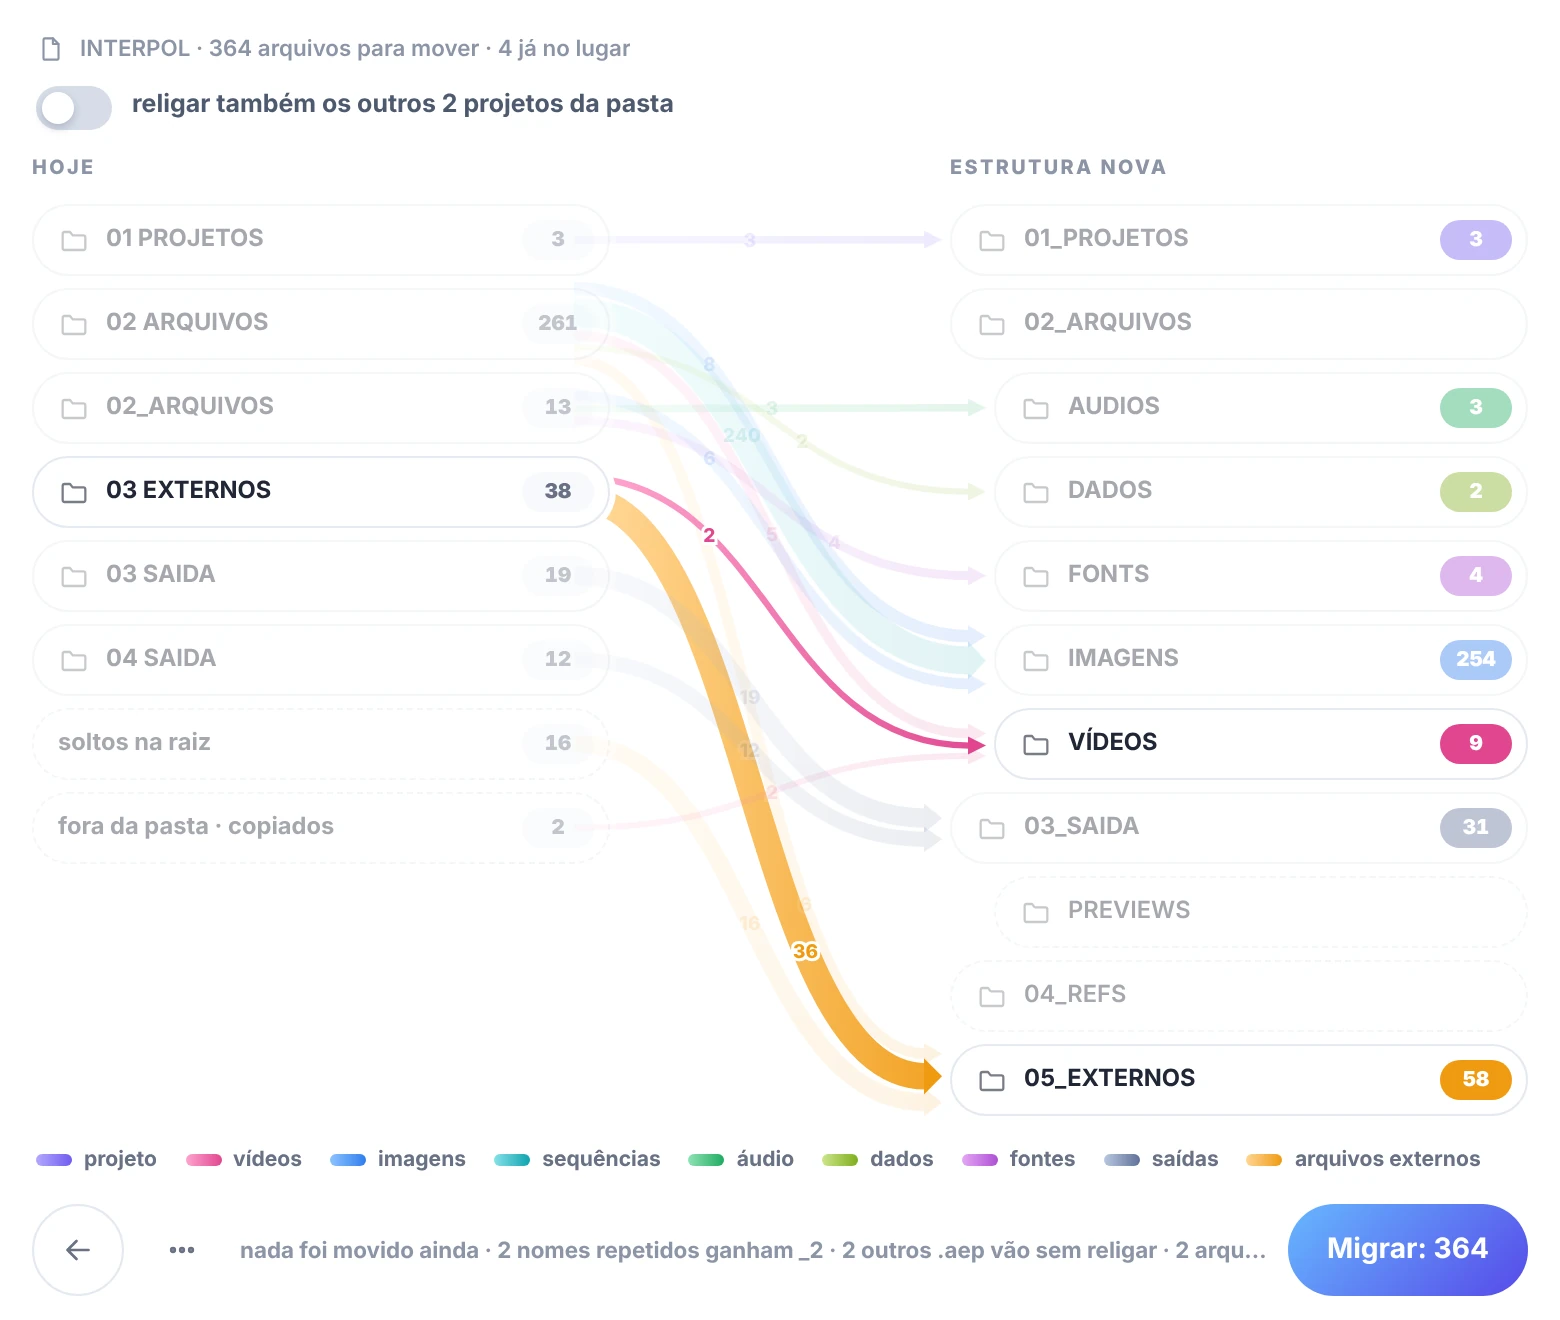
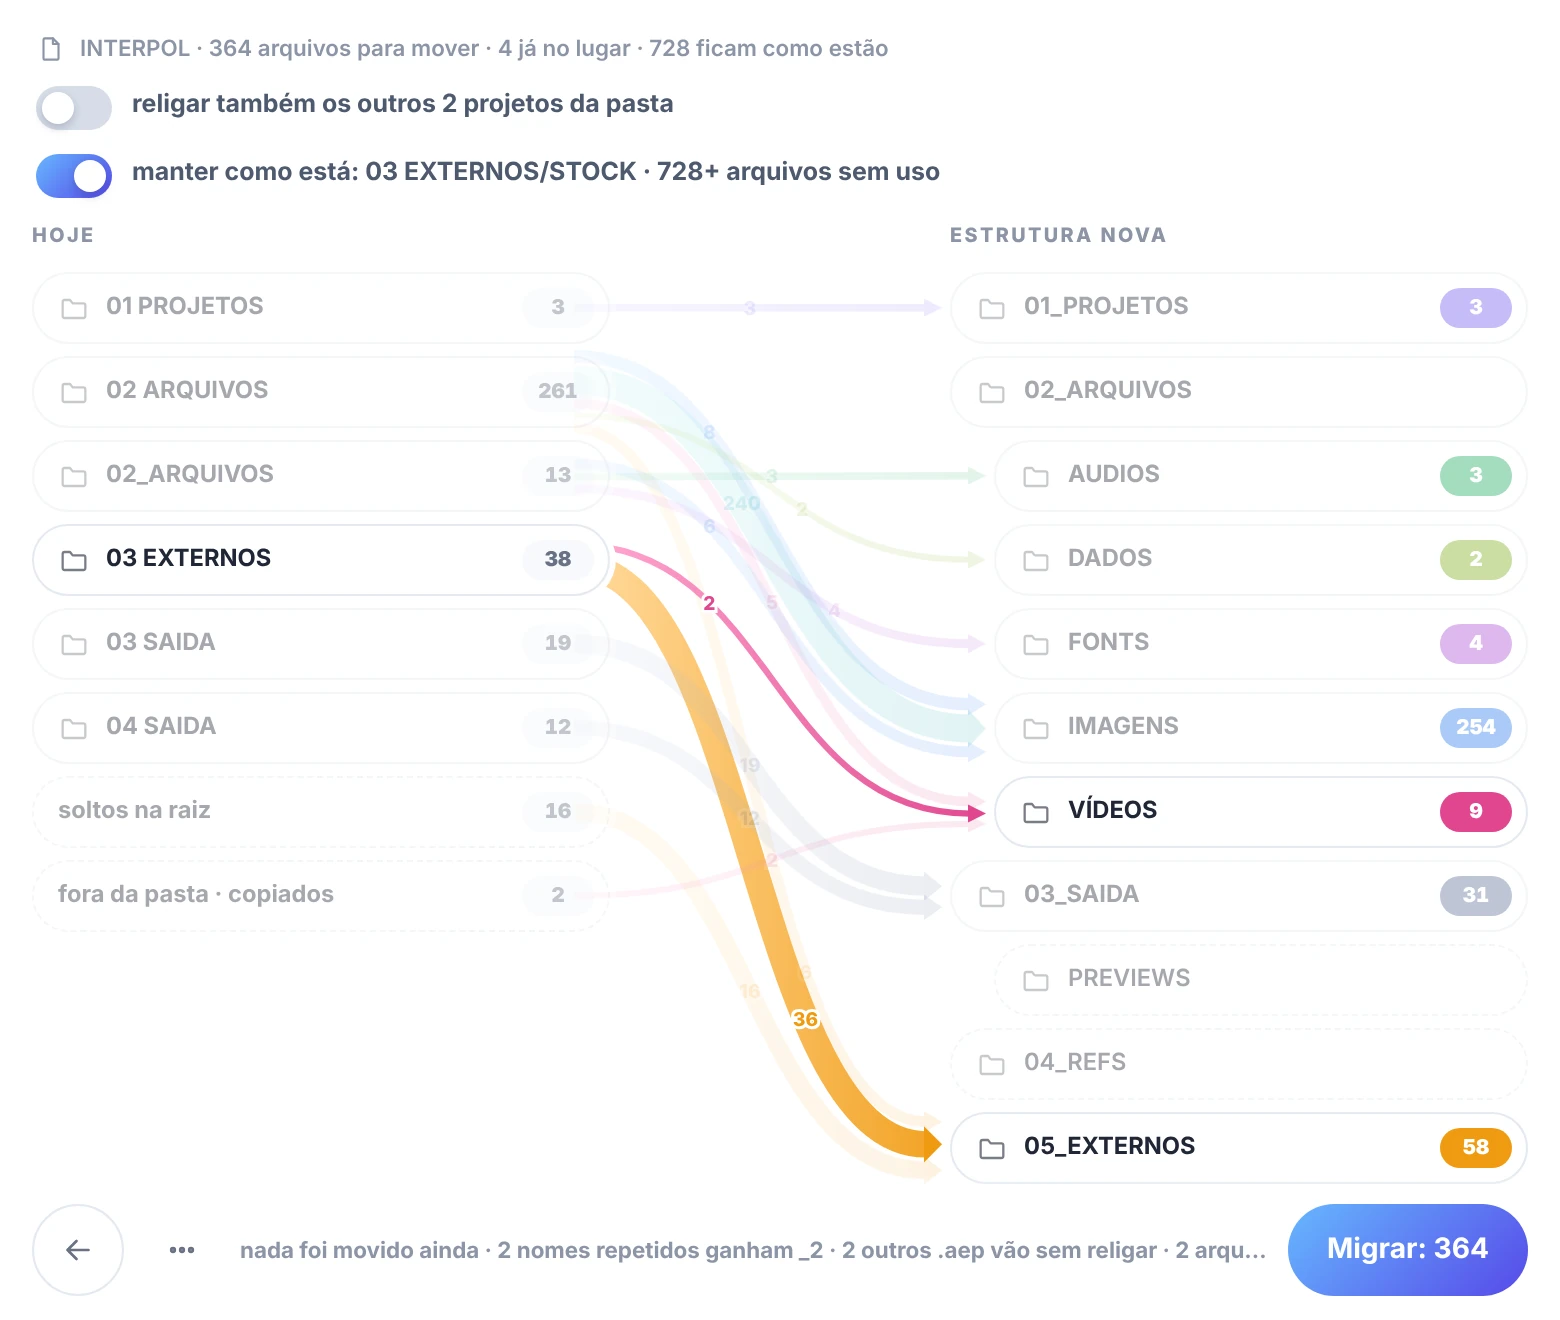
migração: pastas grandes de arquivos sem uso ficam como estão
- a leitura vai até 3 pastas para dentro (as de saída, inteiras); o que o projeto
  usa sai de qualquer profundidade
- a pasta de segundo nível com mais de 100 arquivos sem uso, ou mais funda do que
  a leitura, fica onde está; a janela mostra cada uma com a chave 'manter como
  está' (desligada: vai inteira para os externos)

Claude-Session: https://claude.ai/code/session_01DrYHfUyMEmqYvcFyKefNe2

diff --git a/extension/host/migrate.jsx b/extension/host/migrate.jsx
@@ -13,6 +13,10 @@ com outra grafia (02 ARQUIVOS, 02_ARQUIVOS) se juntam e nada fica solto.
   o que está numa pasta de saída               → a pasta do tipo 'saidas', com as subpastas
   as fontes de uma pasta de fontes             → a pasta do tipo 'fontes'
   todo o resto                                 → a pasta do tipo 'externos', com o caminho de antes dentro dela
+  as pastas grandes de arquivos sem uso        → FICAM COMO ESTÃO (banco de presets, stock footage…): a pasta de segundo
+                                                 nível (03 EXTERNOS/STOCK) com mais de PAD_MIGRATION_BULK arquivos sem
+                                                 uso, ou com pastas além de PAD_MIGRATION_DEPTH níveis (que nem são
+                                                 lidas). a janela mostra cada uma e deixa mover também ({ move })
   os arquivos usados que estão FORA da raiz    → COPIADOS (não movidos: outros projetos podem usar) para a pasta do
                                                  tipo de cada um, como o coletar faz
 
@@ -40,6 +44,8 @@ Arquivo movido no disco não volta com o Ctrl+Z do After Effects: por isso o reg
 var PAD_MIGRATION_LOG = '_migracao_padeiro.json';
 var PAD_MIGRATION_MS = 15000; // o tempo máximo da leitura da pasta
 var PAD_MIGRATION_FILES = 30000; // e o máximo de arquivos
+var PAD_MIGRATION_DEPTH = 3; // até quantas pastas para dentro a leitura vai (as de saída e as que o usuário manda mover, inteiras)
+var PAD_MIGRATION_BULK = 100; // mais arquivos sem uso do que isto numa pasta: é um banco, fica como está
 var PAD_MIGRATION_FALLBACK = { projeto: '01_PROJETOS', saidas: '03_SAIDA', externos: '05_EXTERNOS' };
 var PAD_FONT_EXT = /\.(otf|ttf|ttc|otc|woff2?|pfb|pfm|dfont)$/i;
 var PAD_PROJECT_EXT = /\.(aep|aet|aepx)$/i;
@@ -91,7 +97,17 @@ function padMigrateUsed() {
 	return used;
 }
 
-// Todos os arquivos da pasta (para dentro, até 10 níveis): [{ path, rel, top }]. pula os escondidos e o registro.
+// A pasta de segundo nível de um arquivo ('03 EXTERNOS/STOCK/a/b.png' → '03 EXTERNOS/STOCK'): a unidade das pastas grandes.
+function padMigrateGroup(rel) {
+	var dirs = rel.split('/');
+
+	dirs.pop();
+
+	return dirs.slice(0, 2).join('/');
+}
+
+// Todos os arquivos da pasta (para dentro, até 'depth' níveis): [{ path, rel, top }]. pula os escondidos e o registro.
+// as pastas além do limite não são lidas: ficam em state.deep [{ path, rel }]
 function padMigrateScan(folder, rel, depth, state) {
 	var list = [];
 
@@ -114,6 +130,7 @@ function padMigrateScan(folder, rel, depth, state) {
 
 		if (isFolder) {
 			if (depth > 0) padMigrateScan(new Folder(list[i].fsName), here, depth - 1, state);
+			else state.deep.push({ path: list[i].fsName, rel: here });
 			continue;
 		}
 
@@ -146,7 +163,8 @@ function padIsFontsFolder(name) {
 // O plano: o que vai para onde. → { root, name, project, ops, stay, conflicts, others, outside, partial, sources, ... }
 // ops: [{ from, to (relativo à raiz), type, top, id (o item do After, se usado), first, project (o .aep aberto) }]
 // all: soma o que os outros projetos da pasta usam (lido pelo migrateRead*)
-function padMigrateBuild(all) {
+// move: as pastas grandes que o usuário mandou mover também (as outras ficam como estão: plan.bulk, plan.kept)
+function padMigrateBuild(all, move) {
 	var file = app.project.file;
 
 	if (!file) throw new Error('#PAD_104 - migrar: salve o projeto antes (a migração arruma a pasta onde ele está).');
@@ -155,8 +173,14 @@ function padMigrateBuild(all) {
 	var root = new Folder(padCollectRoot(file, settings));
 	var rootKey = padPathKey(root.fsName);
 	var used = padMigrateUsed();
-	var state = { files: [], until: new Date().getTime() + PAD_MIGRATION_MS, partial: false };
-	var plan = { root: root.fsName, name: decodeURI(root.name), project: file.fsName, ops: [], stay: 0, conflicts: 0, others: 0, outside: 0, partial: false, settings: settings, all: false };
+	var state = { files: [], deep: [], until: new Date().getTime() + PAD_MIGRATION_MS, partial: false };
+	var plan = { root: root.fsName, name: decodeURI(root.name), project: file.fsName, ops: [], stay: 0, conflicts: 0, others: 0, outside: 0, partial: false, settings: settings, all: false, bulk: [], kept: 0 };
+	var moveSet = {};
+	var deepGroup = {};
+	var groupCount = {};
+	var m;
+
+	for (m = 0; move && m < move.length; m++) moveSet[move[m]] = true;
 	var extra = all && padMigrationRead && padPathKey(padMigrationRead.root) == rootKey ? padMigrationRead.used : null;
 
 	// o que os outros projetos usam (o projeto aberto vem primeiro: os itens dele são os que este After religa agora)
@@ -174,8 +198,35 @@ function padMigrateBuild(all) {
 	var extKey = padPathKey(root.fsName + '/' + destExt);
 	var k;
 
-	padMigrateScan(root, '', 10, state);
+	padMigrateScan(root, '', PAD_MIGRATION_DEPTH, state);
+
+	// as pastas fundas: as de saída e as das pastas que o usuário mandou mover são lidas inteiras; as outras marcam
+	// a pasta de segundo nível como grande (fica como está)
+	var deep = state.deep;
+
+	state.deep = [];
+	for (m = 0; m < deep.length; m++) {
+		var group = padMigrateGroup(deep[m].rel + '/x');
+
+		if (moveSet[group] || padIsOutputFolder(deep[m].rel.split('/')[0], saidasKey)) padMigrateScan(new Folder(deep[m].path), deep[m].rel, 10 - PAD_MIGRATION_DEPTH, state);
+		else deepGroup[group] = true;
+	}
 	plan.partial = state.partial;
+
+	// os usados que estão na raiz mas fundo demais para a leitura: entram pelo caminho do item do After
+	var scanned = {};
+
+	for (m = 0; m < state.files.length; m++) scanned[padPathKey(state.files[m].path)] = true;
+
+	for (k in used) {
+		if (!used.hasOwnProperty(k) || k.indexOf(rootKey) != 0 || scanned[k]) continue;
+
+		var deepRel = padSlash(used[k].path).substring(padSlash(root.fsName).length + 1);
+
+		if (padPathKey(root.fsName + '/' + deepRel) != k) continue;
+
+		state.files.push({ path: used[k].path, rel: deepRel, top: deepRel.indexOf('/') < 0 ? '' : deepRel.split('/')[0] });
+	}
 
 	// os usados que estão fora da raiz: copiados para a pasta do tipo (o original fica onde está). 'top' = '..' é a
 	// origem "fora da pasta" no desenho; 'from' é o caminho inteiro
@@ -238,8 +289,36 @@ function padMigrateBuild(all) {
 			continue;
 		}
 
+		// sem uso e dentro de uma pasta: conta para a pasta de segundo nível (as grandes ficam como estão)
+		if (op.type == 'externos' && !op.id && f.top != '') {
+			op.bulk = padMigrateGroup(f.rel);
+			groupCount[op.bulk] = (groupCount[op.bulk] || 0) + 1;
+		}
+
 		plan.ops.push(op);
 	}
+
+	// as pastas grandes (muitos arquivos sem uso, ou fundas demais): ficam como estão, a não ser as que o usuário
+	// mandou mover
+	var heavy = {};
+	var kept = [];
+
+	for (k in deepGroup) {
+		if (deepGroup.hasOwnProperty(k) && !groupCount[k]) groupCount[k] = 0;
+	}
+
+	for (k in groupCount) {
+		if (!groupCount.hasOwnProperty(k) || (groupCount[k] <= PAD_MIGRATION_BULK && !deepGroup[k])) continue;
+
+		heavy[k] = true;
+		plan.bulk.push({ path: k, count: groupCount[k], deep: !!deepGroup[k], keep: !moveSet[k] });
+	}
+
+	for (m = 0; m < plan.ops.length; m++) {
+		if (plan.ops[m].bulk && heavy[plan.ops[m].bulk] && !moveSet[plan.ops[m].bulk]) plan.kept++;
+		else kept.push(plan.ops[m]);
+	}
+	plan.ops = kept;
 
 	// nomes repetidos no destino (dois arquivos com o mesmo nome, ou um que já existe lá): o segundo ganha _2, _3…
 	for (var o = 0; o < plan.ops.length; o++) {
@@ -264,12 +343,13 @@ function padMigrateBuild(all) {
 // O plano para o desenho da janela: as pastas de hoje, a estrutura nova e os fluxos entre elas.
 // → { root, name, total, stay, conflicts, others, outside, partial, undo (há um registro para desfazer),
 //     sources: [{ name ('' = soltos na raiz), count }], dests: [{ path, depth, type, count, extra (fora da árvore) }],
-//     links: [{ from, to, type, count, names (os primeiros arquivos) }] }
-// a: { all } (com o uso dos outros projetos, já lido)
+//     links: [{ from, to, type, count, names (os primeiros arquivos) }],
+//     bulk: [{ path, count, deep (tem pastas que nem foram lidas), keep }] (as pastas grandes), kept (quantos ficam) }
+// a: { all } (com o uso dos outros projetos, já lido), { move } (as pastas grandes para mover também)
 PADX.migratePlan = function (a) {
-	var plan = padMigrateBuild(a && a.all);
+	var plan = padMigrateBuild(a && a.all, a && a.move);
 	var folders = padStructureFolders(plan.settings);
-	var res = { root: padDisplayPath(plan.root), name: plan.name, total: plan.ops.length, stay: plan.stay, conflicts: plan.conflicts, others: plan.others, outside: plan.outside, partial: plan.partial, all: plan.all, undo: new File(plan.root + '/' + PAD_MIGRATION_LOG).exists, sources: [], dests: [], links: [] };
+	var res = { root: padDisplayPath(plan.root), name: plan.name, total: plan.ops.length, stay: plan.stay, conflicts: plan.conflicts, others: plan.others, outside: plan.outside, partial: plan.partial, all: plan.all, bulk: plan.bulk, kept: plan.kept, undo: new File(plan.root + '/' + PAD_MIGRATION_LOG).exists, sources: [], dests: [], links: [] };
 	var srcIndex = {};
 	var dstIndex = {};
 	var linkIndex = {};
@@ -560,9 +640,9 @@ PADX.migrateReadEnd = function () {
 };
 
 // Começa: refaz o plano (a pasta pode ter mudado desde o desenho) e cria as pastas da estrutura. → { total }
-// a: { all } (com os outros projetos: o uso deles já foi lido)
+// a: { all } (com os outros projetos: o uso deles já foi lido), { move } (as pastas grandes para mover também)
 PADX.migrateBegin = function (a) {
-	var plan = padMigrateBuild(a && a.all);
+	var plan = padMigrateBuild(a && a.all, a && a.move);
 
 	if (plan.partial) throw new Error('#PAD_105 - migrar: a pasta é grande demais para ler de uma vez (mais de ' + PAD_MIGRATION_FILES + ' arquivos ou muito lenta). nada foi movido.');
 	if (new File(plan.root + '/' + PAD_MIGRATION_LOG).exists) throw new Error('#PAD_106 - migrar: esta pasta já foi migrada (há um registro nela). desfaça a migração antes de migrar de novo.');

diff --git a/extension/client/js/mock-host.js b/extension/client/js/mock-host.js
@@ -1366,8 +1366,10 @@ Use '?mock=slow' para respostas mais lentas e '?mock=fail' para simular erros.
 		// com todos os projetos (a: { all }): o que só os outros projetos usam sai dos externos
 		migratePlan: function (a) {
 			var all = !!(a && a.all);
+			// a pasta grande de exemplo (um banco de stock): fica como está, a não ser que mandem mover
+			var moveStock = !!(a && a.move && a.move.indexOf('03 EXTERNOS/STOCK') >= 0);
 			var dests = [['01_PROJETOS', 0, 'projeto'], ['02_ARQUIVOS', 0, ''], ['02_ARQUIVOS/AUDIOS', 1, 'audio'], ['02_ARQUIVOS/DADOS', 1, 'dados'], ['02_ARQUIVOS/FONTS', 1, 'fontes'], ['02_ARQUIVOS/IMAGENS', 1, 'imagens'], ['02_ARQUIVOS/VÍDEOS', 1, 'videos'], ['03_SAIDA', 0, 'saidas'], ['03_SAIDA/PREVIEWS', 1, ''], ['04_REFS', 0, ''], ['05_EXTERNOS', 0, 'externos']];
-			var links = window.PAD_MOCK_MIGRATED ? [] : [['01 PROJETOS', '01_PROJETOS', 'projeto', 3], ['02 ARQUIVOS', '02_ARQUIVOS/IMAGENS', 'imagens', 8], ['02 ARQUIVOS', '02_ARQUIVOS/IMAGENS', 'sequencias', 240], ['02 ARQUIVOS', '02_ARQUIVOS/VÍDEOS', 'videos', 5], ['02 ARQUIVOS', '02_ARQUIVOS/DADOS', 'dados', 2], ['02 ARQUIVOS', '05_EXTERNOS', 'externos', all ? 2 : 6], ['02 ARQUIVOS', '02_ARQUIVOS/VÍDEOS', 'videos', all ? 4 : 0], ['02_ARQUIVOS', '02_ARQUIVOS/IMAGENS', 'imagens', 6], ['02_ARQUIVOS', '02_ARQUIVOS/AUDIOS', 'audio', 3], ['02_ARQUIVOS', '02_ARQUIVOS/FONTS', 'fontes', 4], ['03 EXTERNOS', '02_ARQUIVOS/VÍDEOS', 'videos', 2], ['03 EXTERNOS', '05_EXTERNOS', 'externos', all ? 24 : 36], ['03 EXTERNOS', '02_ARQUIVOS/IMAGENS', 'imagens', all ? 12 : 0], ['03 SAIDA', '03_SAIDA', 'saidas', 19], ['04 SAIDA', '03_SAIDA', 'saidas', 12], ['', '05_EXTERNOS', 'externos', 16], ['..', '02_ARQUIVOS/VÍDEOS', 'videos', 2]];
+			var links = window.PAD_MOCK_MIGRATED ? [] : [['01 PROJETOS', '01_PROJETOS', 'projeto', 3], ['02 ARQUIVOS', '02_ARQUIVOS/IMAGENS', 'imagens', 8], ['02 ARQUIVOS', '02_ARQUIVOS/IMAGENS', 'sequencias', 240], ['02 ARQUIVOS', '02_ARQUIVOS/VÍDEOS', 'videos', 5], ['02 ARQUIVOS', '02_ARQUIVOS/DADOS', 'dados', 2], ['02 ARQUIVOS', '05_EXTERNOS', 'externos', all ? 2 : 6], ['02 ARQUIVOS', '02_ARQUIVOS/VÍDEOS', 'videos', all ? 4 : 0], ['02_ARQUIVOS', '02_ARQUIVOS/IMAGENS', 'imagens', 6], ['02_ARQUIVOS', '02_ARQUIVOS/AUDIOS', 'audio', 3], ['02_ARQUIVOS', '02_ARQUIVOS/FONTS', 'fontes', 4], ['03 EXTERNOS', '02_ARQUIVOS/VÍDEOS', 'videos', 2], ['03 EXTERNOS', '05_EXTERNOS', 'externos', all ? 24 : 36], ['03 EXTERNOS', '02_ARQUIVOS/IMAGENS', 'imagens', all ? 12 : 0], ['03 SAIDA', '03_SAIDA', 'saidas', 19], ['04 SAIDA', '03_SAIDA', 'saidas', 12], ['03 EXTERNOS', '05_EXTERNOS', 'externos', moveStock ? 728 : 0], ['', '05_EXTERNOS', 'externos', 16], ['..', '02_ARQUIVOS/VÍDEOS', 'videos', 2]];
 			var sources = {};
 			var count = {};
 			var total = 0;
@@ -1393,7 +1395,7 @@ Use '?mock=slow' para respostas mais lentas e '?mock=fail' para simular erros.
 			});
 
 			return {
-				root: '/Volumes/VFX/imagem/drive_l/Fileserver_3/PROGRAMAS/INTERPOL', name: 'INTERPOL', total: total, stay: window.PAD_MOCK_MIGRATED ? 362 : 4, conflicts: window.PAD_MOCK_MIGRATED ? 0 : 2, others: window.PAD_MOCK_MIGRATED ? 0 : 2, outside: window.PAD_MOCK_MIGRATED ? 0 : 2, partial: false, all: all, undo: !!window.PAD_MOCK_MIGRATED,
+				root: '/Volumes/VFX/imagem/drive_l/Fileserver_3/PROGRAMAS/INTERPOL', name: 'INTERPOL', total: total, stay: window.PAD_MOCK_MIGRATED ? 362 : 4, conflicts: window.PAD_MOCK_MIGRATED ? 0 : 2, others: window.PAD_MOCK_MIGRATED ? 0 : 2, outside: window.PAD_MOCK_MIGRATED ? 0 : 2, partial: false, all: all, undo: !!window.PAD_MOCK_MIGRATED, kept: window.PAD_MOCK_MIGRATED || moveStock ? 0 : 728, bulk: window.PAD_MOCK_MIGRATED ? [] : [{ path: '03 EXTERNOS/STOCK', count: 728, deep: !moveStock, keep: !moveStock }],
 				sources: Object.keys(sources).sort(function (a, b) {
 					if (a === '..' || b === '..') return a === '..' ? 1 : -1;
 

diff --git a/extension/client/js/collect.js b/extension/client/js/collect.js
@@ -708,6 +708,25 @@ num volume não montado ou com outro sufixo (VFX-1 …): cata o caminho certo e 
 			box.appendChild(all);
 		}
 
+		// as pastas grandes de arquivos sem uso (banco de presets, stock footage…): ficam como estão, a não ser que a
+		// chave de cada uma seja desligada
+		(plan.undo ? [] : plan.bulk || []).forEach(function (bk) {
+			var keep = el('label', 'cfg-switch mg-all');
+			var check = el('input');
+
+			check.type = 'checkbox';
+			check.checked = bk.keep;
+			check.disabled = state.busy;
+			check.addEventListener('change', function () {
+				setBulk(bk.path, !check.checked);
+			});
+			keep.title = 'pasta grande de arquivos que o projeto não usa (um banco de presets, stock footage…).\nligado: fica como está, onde está.\ndesligado: vai inteira para a pasta dos arquivos externos, como o resto.' + (bk.deep ? '\ntem pastas além de 3 níveis, que só são lidas se ela for movida.' : '');
+			keep.appendChild(check);
+			keep.appendChild(el('span', 'cfg-switch-track'));
+			keep.appendChild(el('span', 'cfg-switch-label', 'manter como está: ' + bk.path + ' · ' + (bk.count ? bk.count + (bk.deep && bk.keep ? '+' : '') + ' arquivos sem uso' : 'pasta com muitos níveis')));
+			box.appendChild(keep);
+		});
+
 		grid.appendChild(oldCol);
 		grid.appendChild(el('div', 'mg-gap'));
 		grid.appendChild(newCol);
@@ -740,6 +759,7 @@ num volume não montado ou com outro sufixo (VFX-1 …): cata o caminho certo e 
 		if (state.mig.done) parts.push(plural(plan.total, 'arquivo migrado', 'arquivos migrados'));
 		else parts.push(plan.total ? plural(plan.total, 'arquivo para mover', 'arquivos para mover') : 'nada para mover');
 		if (plan.stay && !state.mig.done) parts.push(plan.stay + ' já no lugar');
+		if (plan.kept && !state.mig.done) parts.push(plural(plan.kept, 'fica como está', 'ficam como estão'));
 		$('fw-file').innerHTML = FILE_SVG;
 		$('fw-file').appendChild(el('span', null, parts.join(' · ')));
 
@@ -784,7 +804,7 @@ num volume não montado ou com outro sufixo (VFX-1 …): cata o caminho certo e 
 		try {
 			var plan = await call('migratePlan');
 
-			state.mig = { plan: plan, note: '', done: false, all: false, unread: [] };
+			state.mig = { plan: plan, note: '', done: false, all: false, unread: [], move: [] };
 			state.finds = null;
 			$('fw-list').hidden = true;
 			$('fw-empty').hidden = true;
@@ -846,9 +866,33 @@ num volume não montado ou com outro sufixo (VFX-1 …): cata o caminho certo e 
 			} else state.mig.unread = [];
 
 			state.mig.all = on;
-			state.mig.plan = await call('migratePlan', { all: on });
+			state.mig.plan = await call('migratePlan', { all: on, move: state.mig.move });
 		} catch (err) {
 			state.mig.all = false;
+			state.busy = false;
+			renderMigration();
+			status(err.message, 'error');
+			return;
+		}
+
+		state.busy = false;
+		renderMigration();
+	}
+
+	// uma pasta grande: mover também (ou voltar a manter como está); o plano é refeito
+	async function setBulk(path, move) {
+		if (state.busy) return;
+
+		state.busy = true;
+		state.mig.note = '';
+		state.mig.move = state.mig.move.filter(function (p) {
+			return p !== path;
+		}).concat(move ? [path] : []);
+		status('lendo a pasta do projeto…');
+
+		try {
+			state.mig.plan = await call('migratePlan', { all: !!state.mig.all, move: state.mig.move });
+		} catch (err) {
 			state.busy = false;
 			renderMigration();
 			status(err.message, 'error');
@@ -868,7 +912,7 @@ num volume não montado ou com outro sufixo (VFX-1 …): cata o caminho certo e 
 		migFooter();
 
 		try {
-			var begin = await call('migrateBegin', { all: !!state.mig.all });
+			var begin = await call('migrateBegin', { all: !!state.mig.all, move: state.mig.move });
 			var step = { done: 0, total: begin.total, failed: 0 };
 
 			while (step.done < step.total) {

diff --git a/README.md b/README.md
@@ -256,6 +256,7 @@ a lista é dividida em **faltando**, **para coletar** e **na pasta do projeto**.
 o coletar **copia** para a pasta do projeto o que está fora dela. a migração **arruma a pasta que já existe**: o que está nela vai para a estrutura da [configuração > coletar](docs/producoes.md#-coletar), as pastas com outra grafia (`02 ARQUIVOS`, `02_ARQUIVOS`) se juntam e nada fica solto. abra pelo **⋯** da janela do CATADOR: '*Migrar a pasta para a estrutura nova…*'.
 
 - **o desenho** → a pasta de **hoje** à esquerda, a **estrutura nova** à direita e uma faixa por tipo de arquivo ligando o que vai para onde: a seta na chegada, a largura pela quantidade e a cor do tipo (as mesmas da configuração), em degradê, do claro ao forte. cada faixa leva a sua quantidade: o mouse numa pasta acende só as faixas dela, e o mouse num número acende a faixa dele e lista os arquivos (até 15 nomes). nada é movido até o **Migrar**.
+- **pastas grandes** → a leitura vai até 3 pastas para dentro. uma pasta com mais de 100 arquivos que o projeto não usa (um banco de presets, stock footage…), ou com mais níveis do que isso, **fica como está**: a janela mostra cada uma com uma chave '*manter como está*'; desligada, a pasta vai inteira para os arquivos externos. o que o projeto usa sai de qualquer profundidade.
 - **o que vai para onde** → o `.aep` aberto e os outros `.aep` / `.aet` da pasta (em qualquer subpasta), para a pasta do tipo **projeto**, cada um na subpasta em que estava (`01 PROJETOS/versoes/x.aep` → `01_PROJETOS/versoes/x.aep`); os arquivos usados pelo projeto, para a pasta do tipo de cada um; o que está numa pasta de saída (`SAIDA`, `OUTPUT`, `RENDER`…), para a do tipo **saídas**, com as subpastas; todo o resto (não usado, autosave, `OLD`, pastas sem par), para a do tipo **arquivos externos**, com o caminho de antes dentro dela.
 - **todos os projetos da pasta** → por padrão só o projeto aberto é religado; os outros vão para a pasta dos projetos sem religar (o After pede os arquivos quando forem abertos) e o que só eles usam conta como não usado. ligando '*religar também os outros projetos da pasta*', o After Effects abre cada um para ler o que ele usa (o plano passa a contar como usado o que **qualquer** projeto usa) e, depois de mover, abre de novo para religar, salvar e fechar; no fim, volta ao projeto de antes. demora mais: cada projeto é aberto duas vezes. o original de cada projeto religado fica guardado em `_originais_migracao`, dentro dos arquivos externos (salvo por um After mais novo, um projeto de versão mais velha sai convertido). um projeto que não abre (versão mais nova que a do After, corrompido) vai movido sem religar e aparece no fim. o projeto aberto precisa estar salvo.
 - **ao migrar** → os arquivos são movidos (na mesma unidade é só trocar o nome: rápido, mesmo com vídeo grande), os itens são religados, o `.aep` é salvo no lugar novo, as saídas da fila de render passam a apontar para a pasta nova e as pastas antigas que ficaram vazias são apagadas. nome repetido no destino não sobrescreve: o segundo ganha `_2`.
